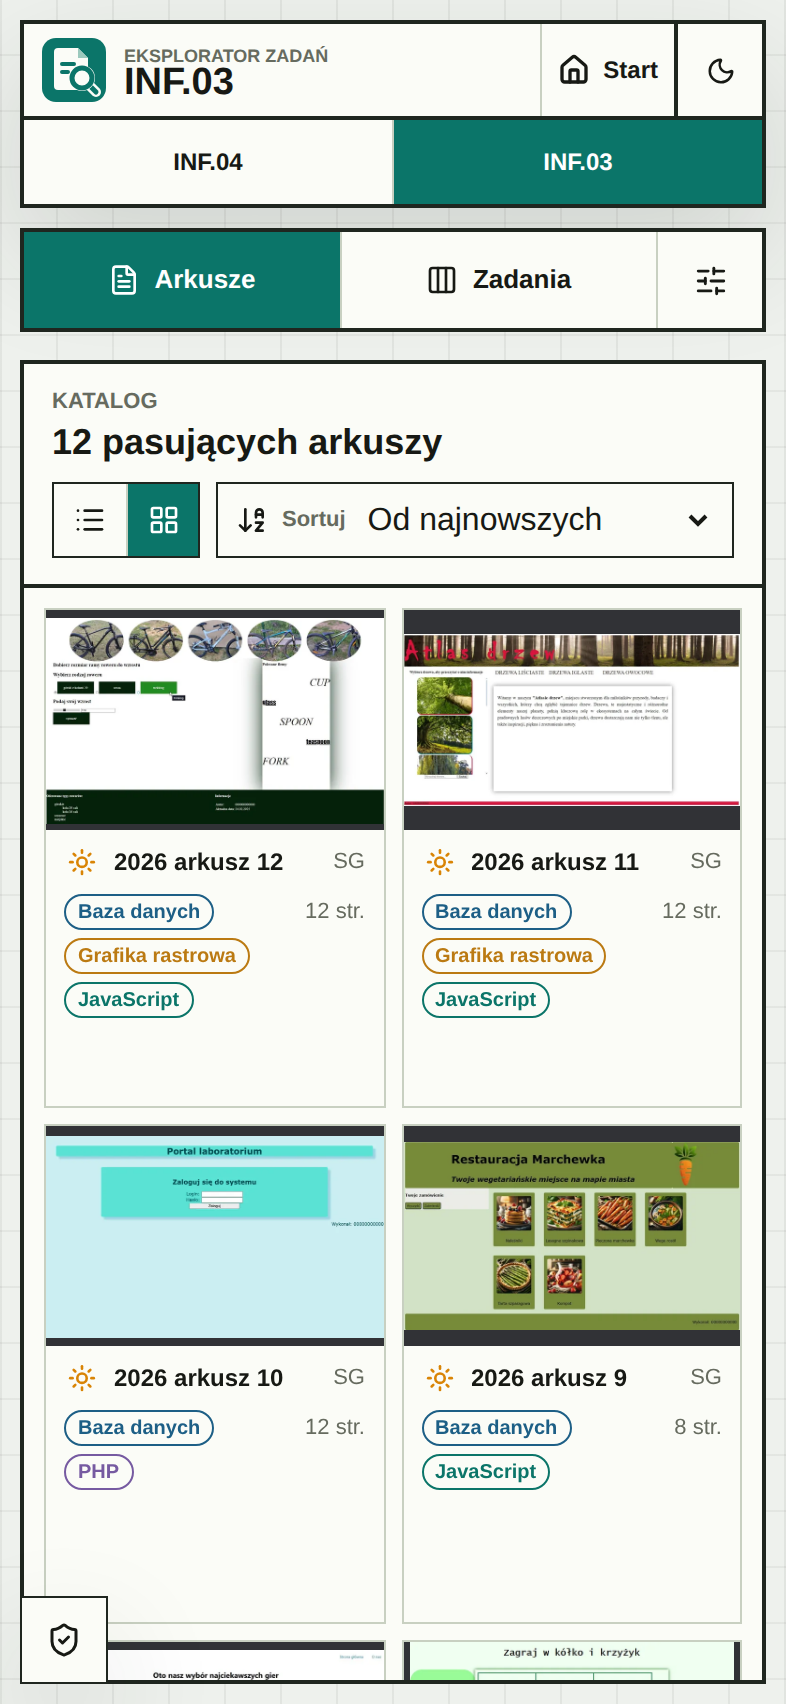
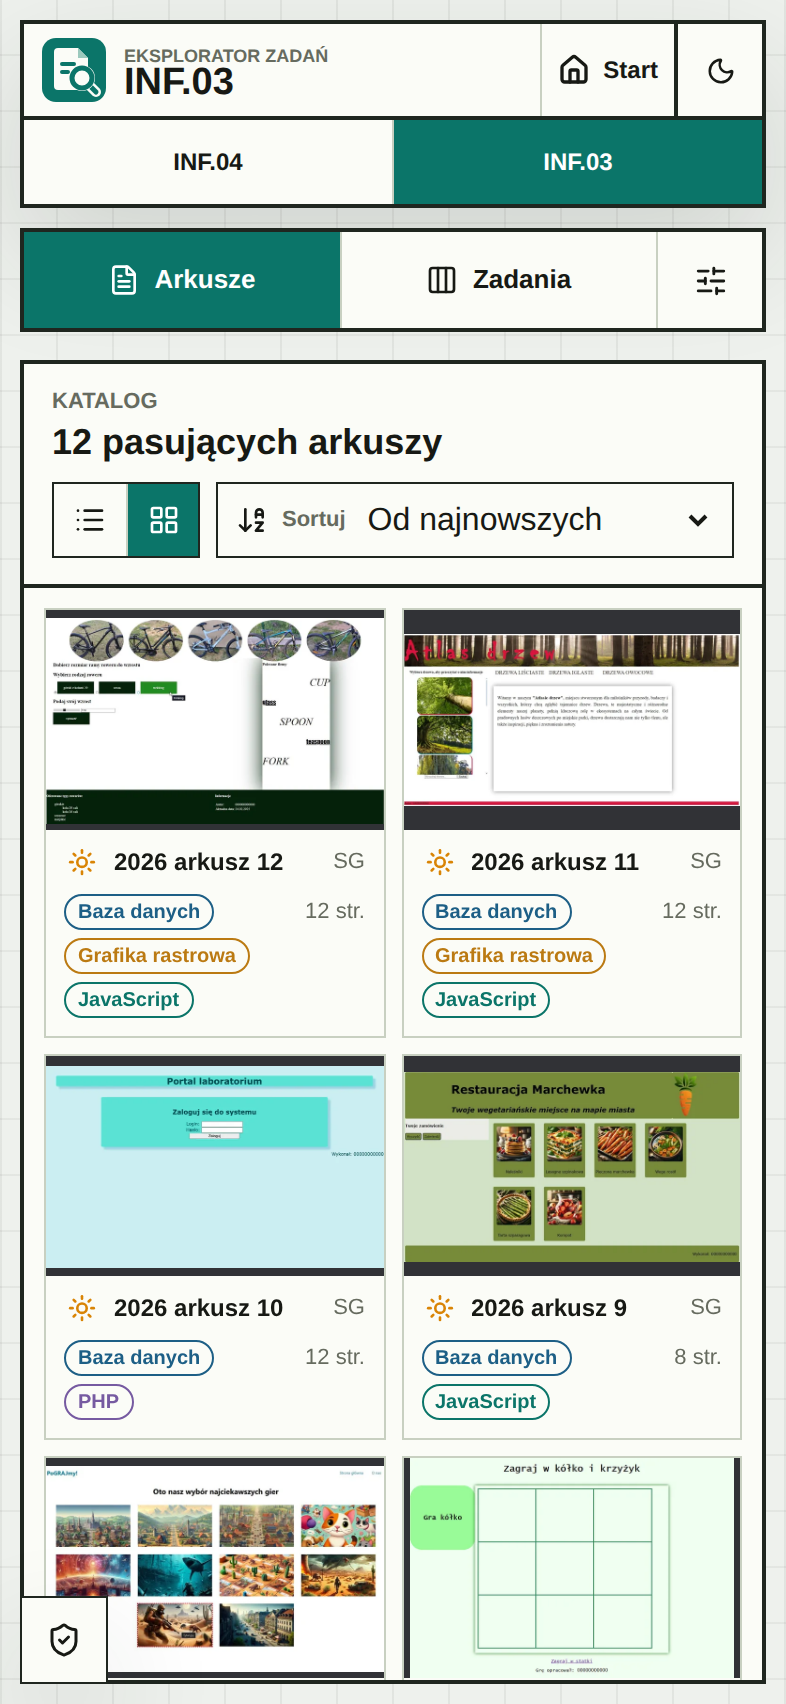
Size thumbnail cards to their content

Changed region(s): [[0.0611, 0.591, 0.9466, 0.9953]]

diff --git a/src/styles/registry.css b/src/styles/registry.css
@@ -105,6 +105,7 @@
 .exam-list.thumbnail-view {
   display: grid;
   grid-template-columns: repeat(auto-fill, minmax(168px, 1fr));
+  grid-auto-rows: max-content;
   align-content: start;
   gap: 12px;
   padding: 14px;

diff --git a/src/styles/responsive.css b/src/styles/responsive.css
@@ -341,7 +341,7 @@
   }
 
   .exam-list.thumbnail-view .exam-line {
-    min-height: 250px;
+    min-height: 0;
   }
 
   .segmented-control button,
